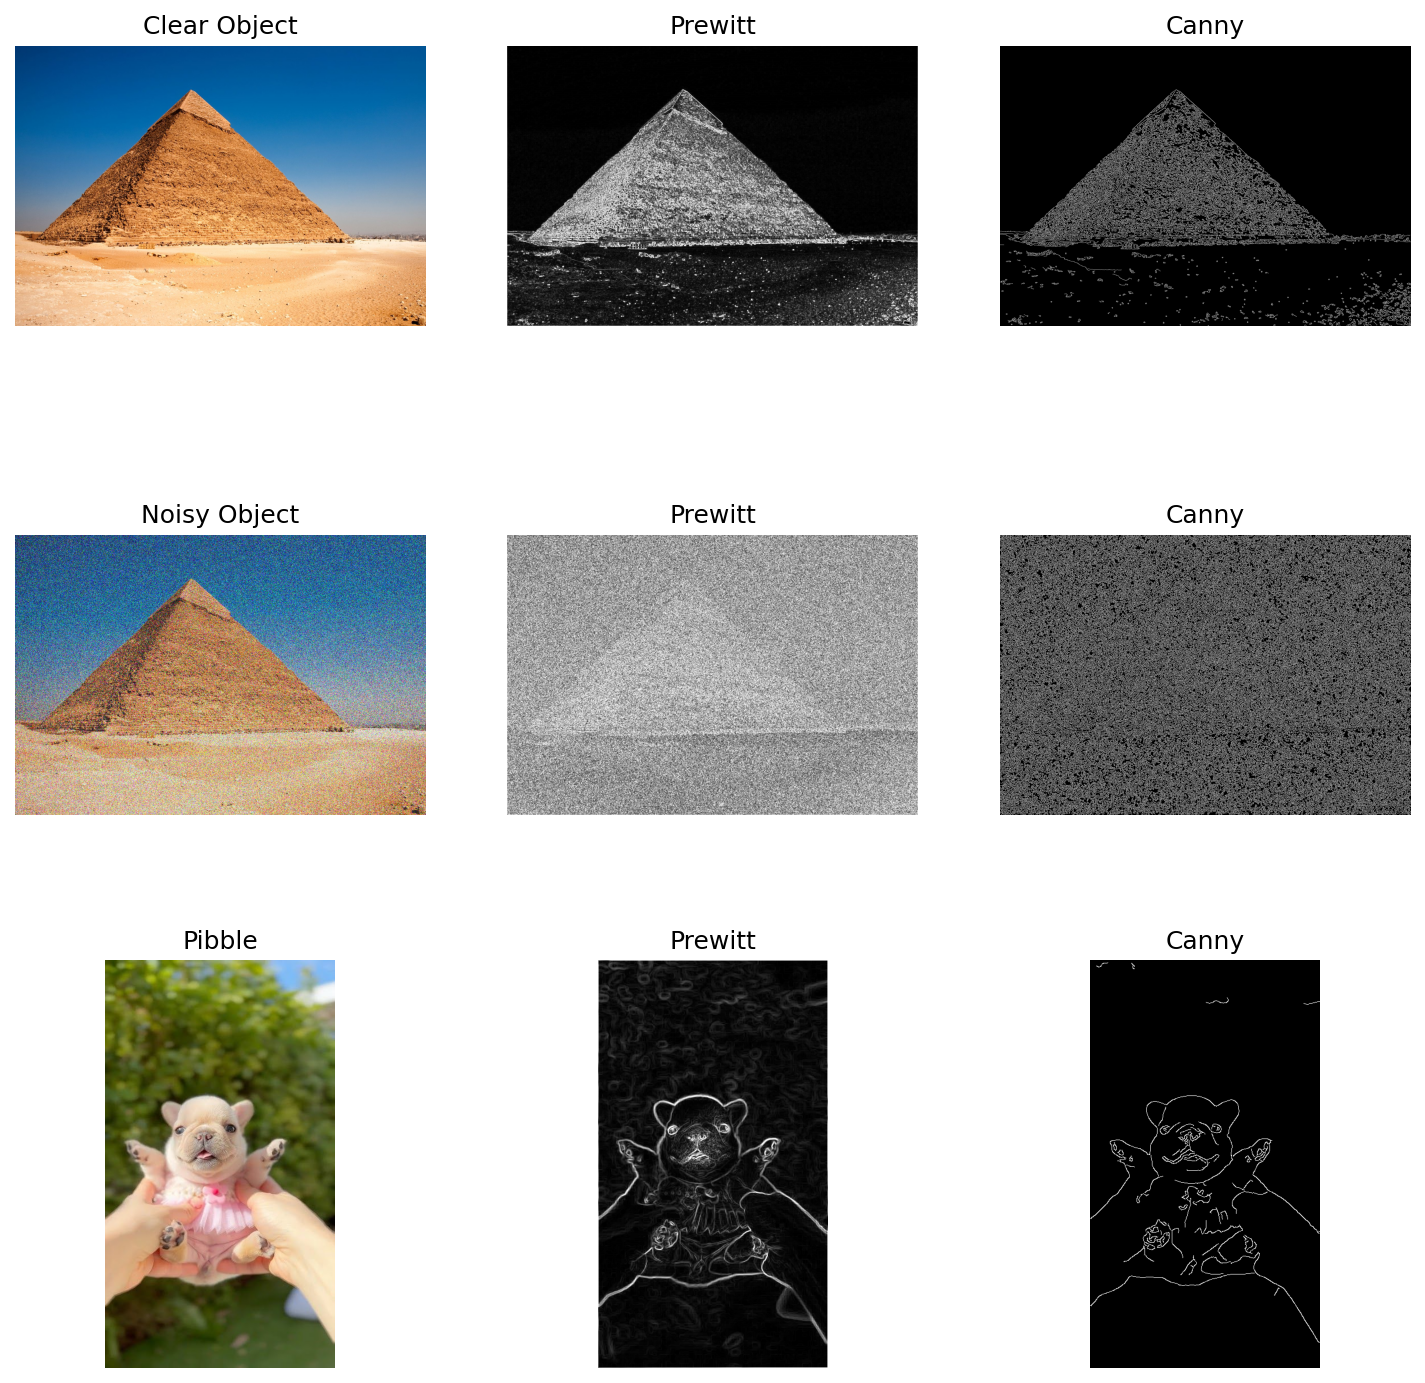
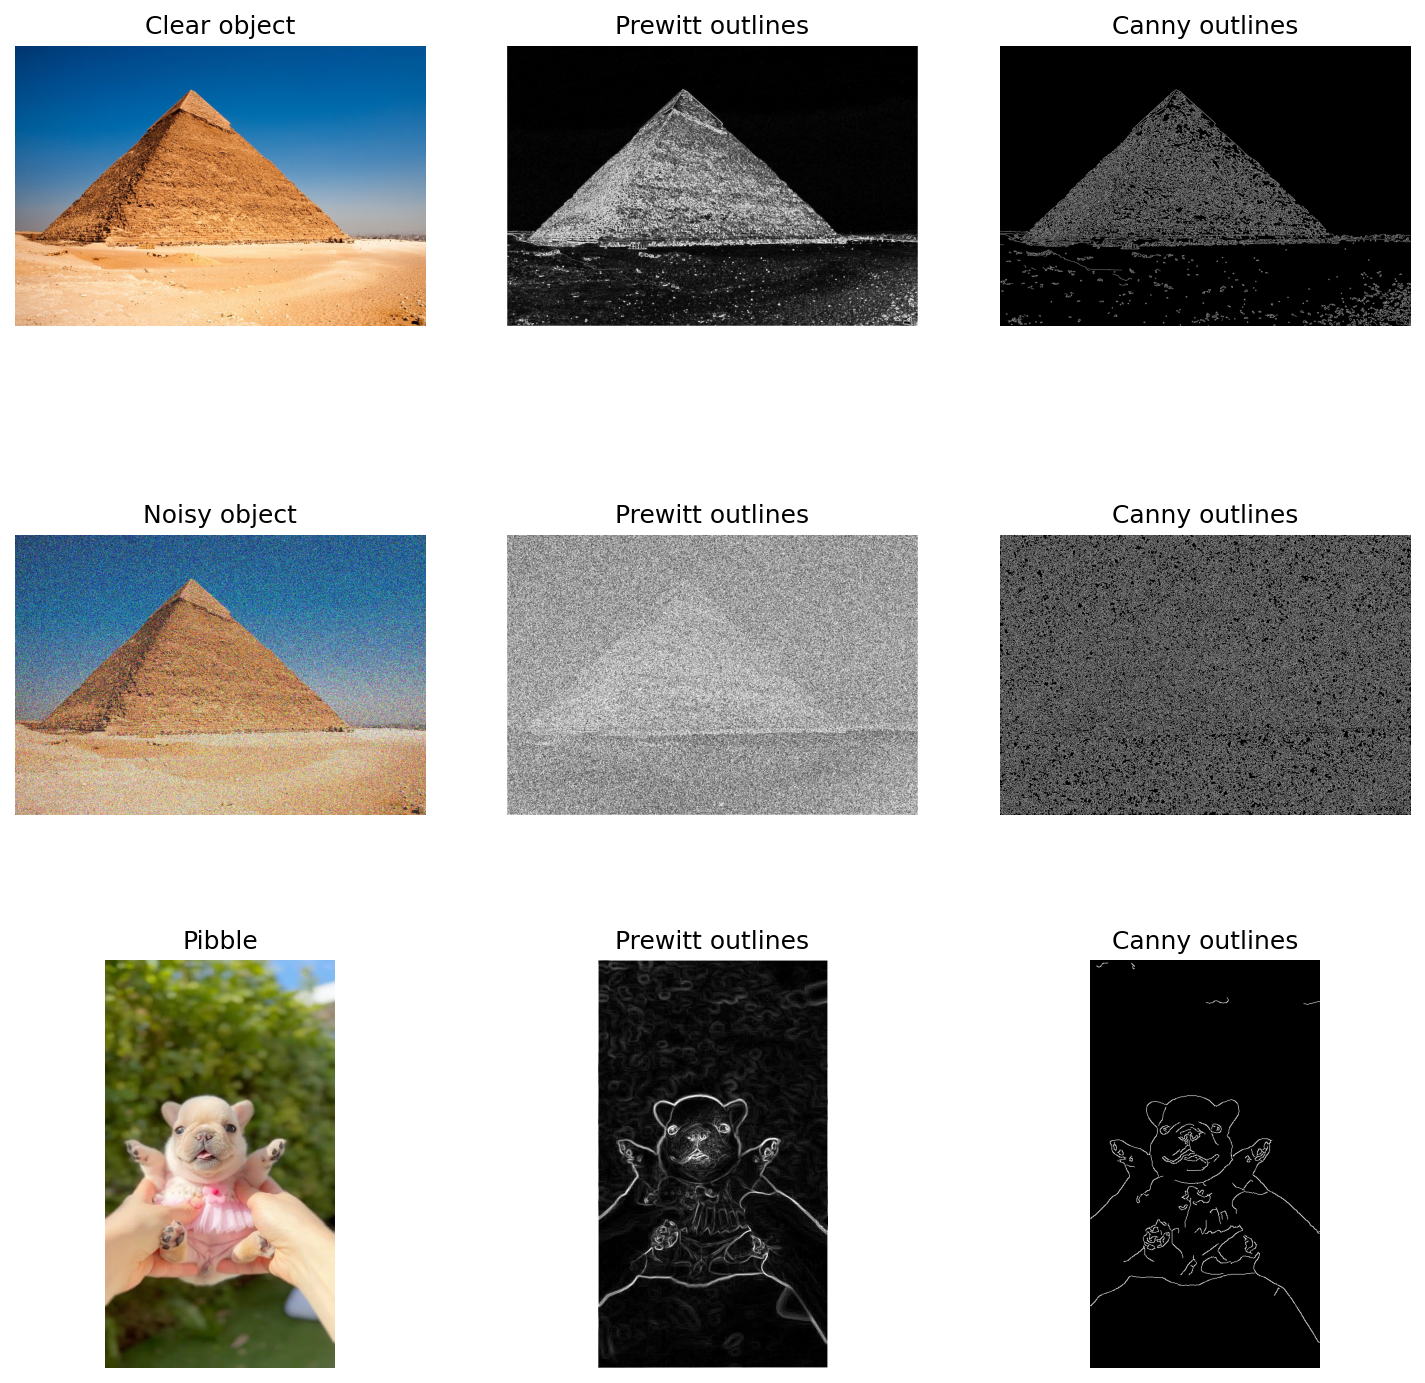
more titles

diff --git a/main.py b/main.py
@@ -74,7 +74,7 @@ def output_images(
     cols = 3
     fig, axes = plt.subplots(rows, cols, figsize=(12, 12))
     row_count = 0
-    original_titles = ["Clear Object", "Noisy Object", "Pibble"]
+    original_titles = ["Clear object", "Noisy object", "Pibble"]
     for idx, (img_rgb, orig) in enumerate(
         [
             (img1_rgb, image1),
@@ -92,10 +92,10 @@ def output_images(
         axes[idx, 0].set_title(original_titles[row_count])
         row_count += 1
         axes[idx, 1].imshow(prewitt_rgb)
-        axes[idx, 1].set_title("Prewitt")
+        axes[idx, 1].set_title("Prewitt outlines")
 
         axes[idx, 2].imshow(canny_rgb)
-        axes[idx, 2].set_title("Canny")
+        axes[idx, 2].set_title("Canny outlines")
 
     for ax in axes.flat:
         ax.axis("off")
